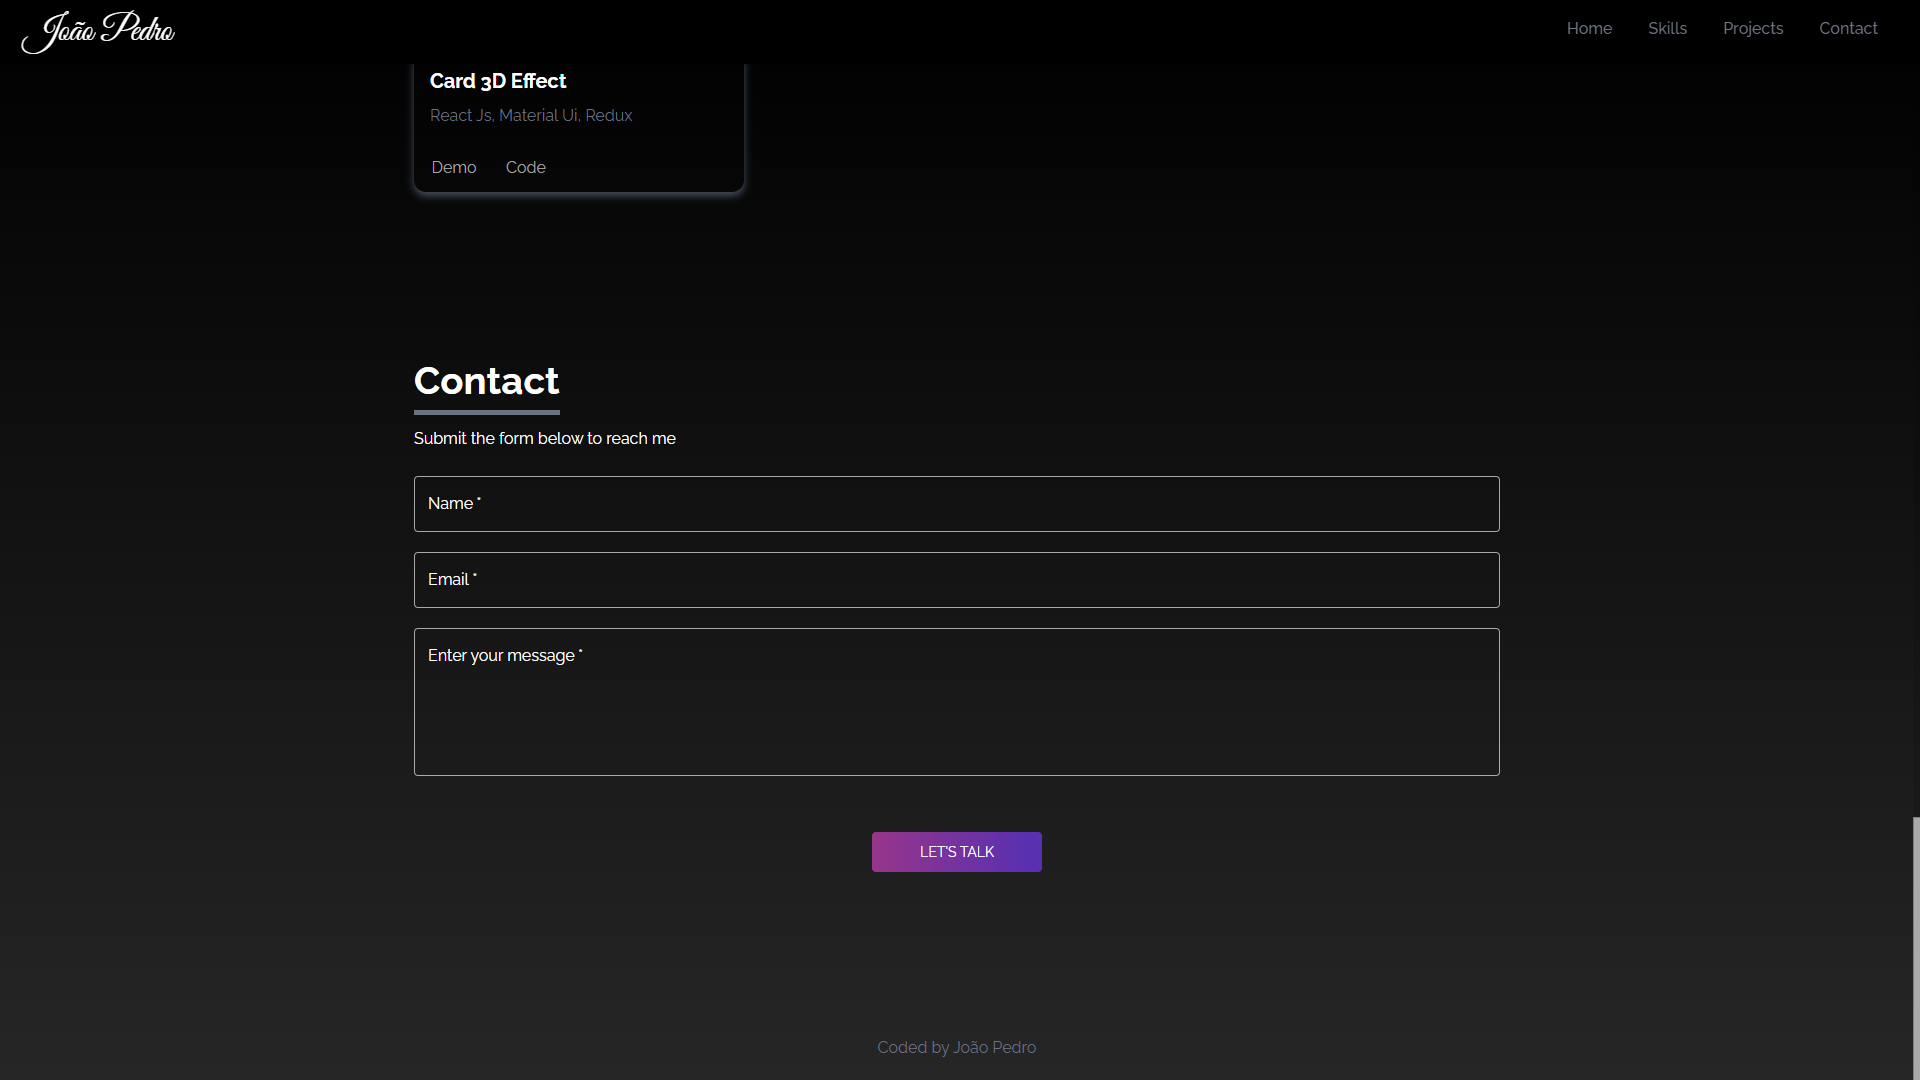
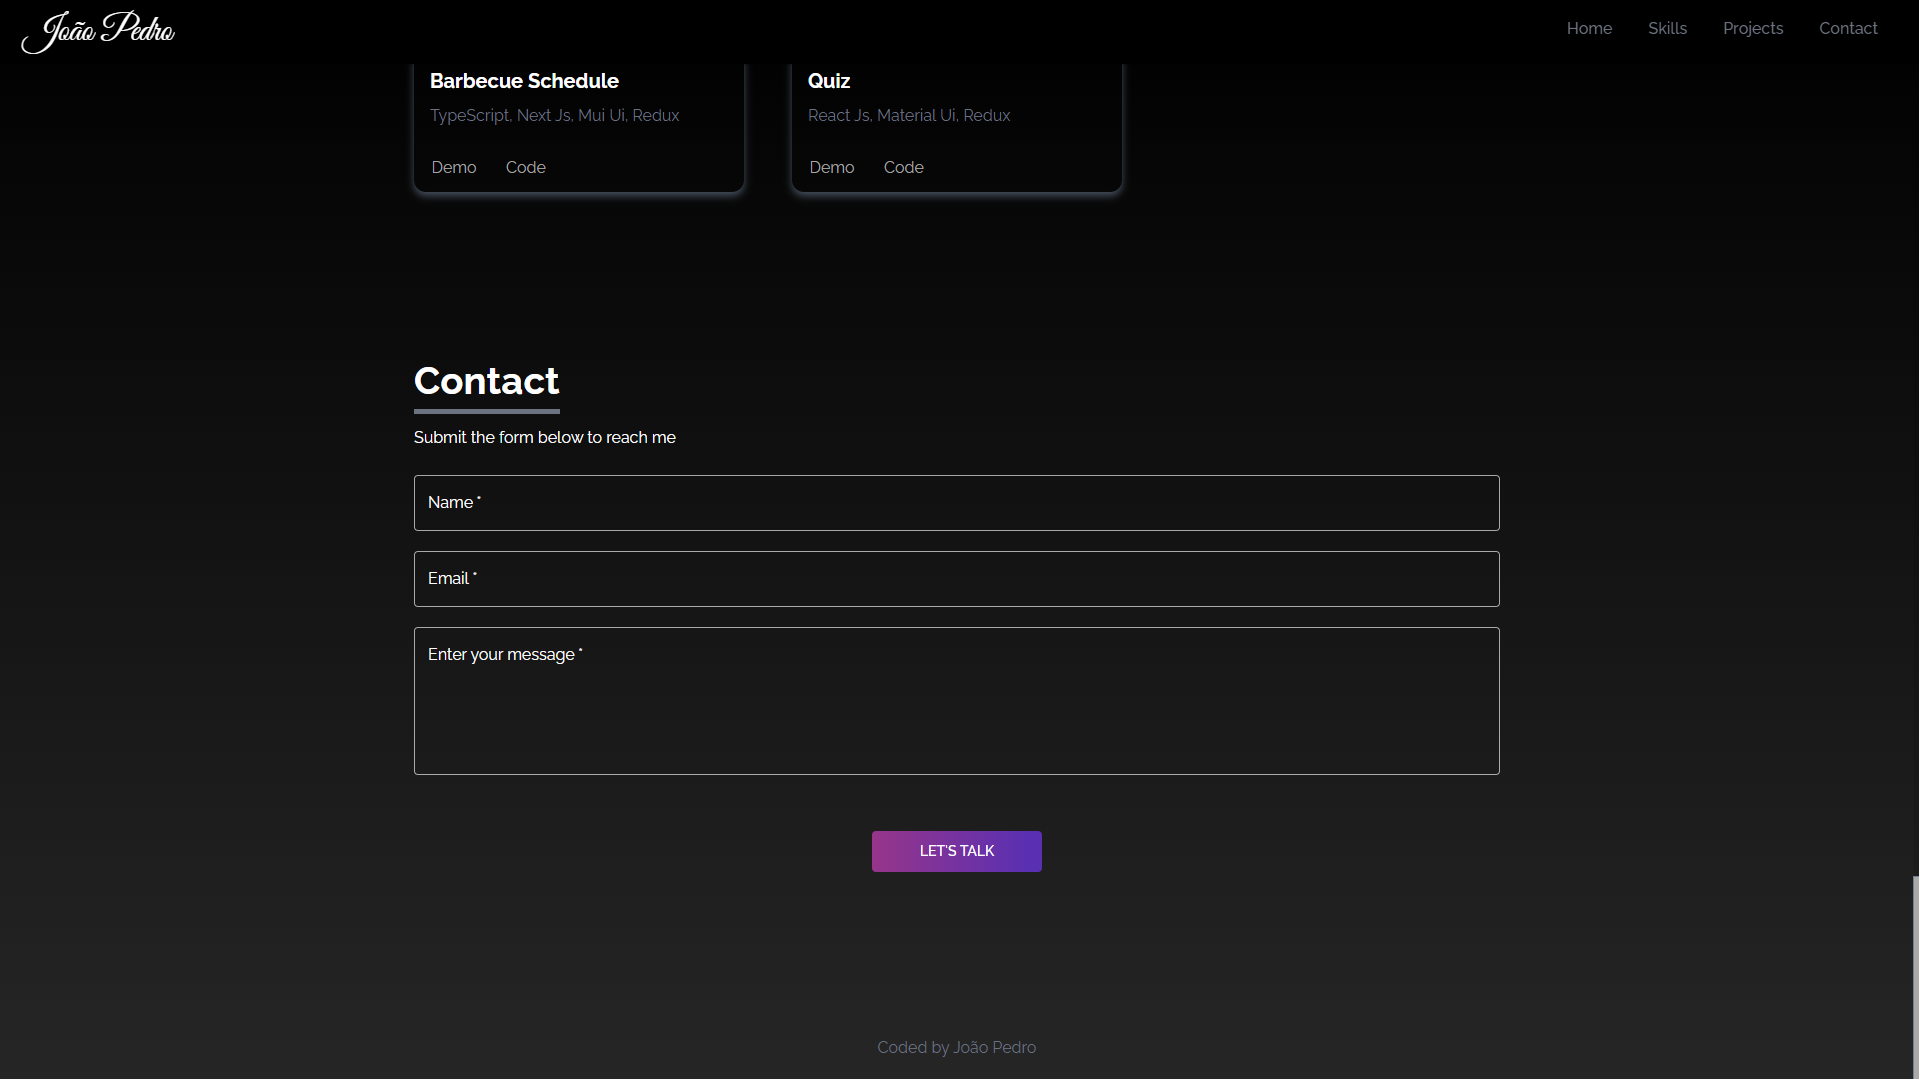
update

diff --git a/src/data/index.js b/src/data/index.js
@@ -18,6 +18,7 @@ import {
   tailwind,
   pokedex,
   lofi,
+  barbecueSchedule,
   nikeShoes,
   weather,
   card3D,
@@ -262,11 +263,19 @@ export const projects = [
     codeLink: "https://github.com/Jpedrdo/FightGym",
   },
   {
+    id: 6,
+    img: barbecueSchedule,
+    name: "Barbecue Schedule",
+    technologies: "TypeScript, Next Js, Mui Ui, Redux",
+    demoLink: "https://jpedrdo.github.io/FightGym/",
+    codeLink: "https://github.com/Jpedrdo/FightGym",
+  },
+  {
     id: 8,
     img: questions,
     name: "Quiz",
     technologies: "React Js, Material Ui, Redux",
-    demoLink: "https://jpedrdo.github.io/Quiz/",
-    codeLink: "https://github.com/Jpedrdo/Quiz",
+    demoLink: "https://github.com/Jpedrdo/BarbecueSchedule",
+    codeLink: "https://jpedrdo.github.io/BarbecueSchedule/",
   },
 ];

diff --git a/src/imgs/index.js b/src/imgs/index.js
@@ -18,6 +18,7 @@ import node from "./skills/node.png";
 import tailwind from "./skills/tailwind.png";
 import pokedex from "./projects/pokedex.png";
 import lofi from "./projects/lofi.png";
+import barbecueSchedule from "./projects/barbecueSchedule.png";
 import nikeShoes from "./projects/nikeShoes.png";
 import weather from "./projects/weather.png";
 import card3D from "./projects/card3D.png";
@@ -57,6 +58,7 @@ export {
   tailwind,
   pokedex,
   lofi,
+  barbecueSchedule,
   nikeShoes,
   weather,
   card3D,
